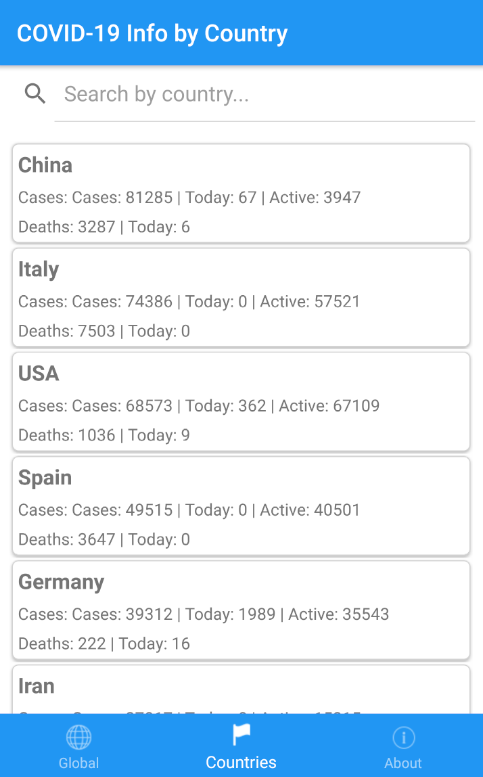
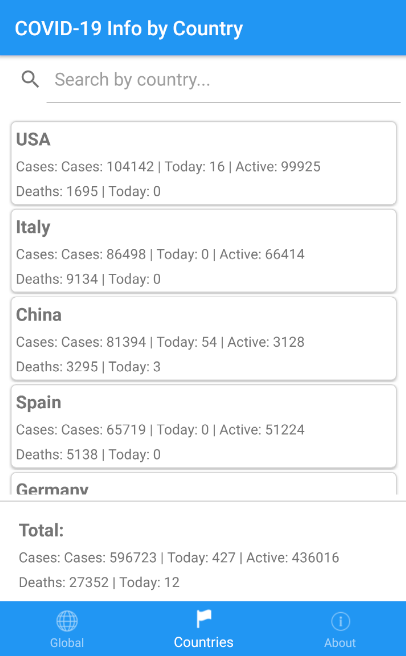
update screenshots

diff --git a/src/COVID19Info/Views/CountriesPage.xaml b/src/COVID19Info/Views/CountriesPage.xaml
@@ -90,7 +90,7 @@
     </RefreshView>
         <BoxView HeightRequest="1"  BackgroundColor="LightGray"/>
         <StackLayout Margin="20,10">
-            <Label Margin="0" Padding="0" Text="{Binding CountryTotal.Name}" FontAttributes="Bold" FontSize="Medium"/>
+            <Label Margin="0" Padding="0" Text="Total:" FontAttributes="Bold" FontSize="Medium"/>
             <Label Margin="0" Padding="0">
                 <Label.FormattedText>
                     <FormattedString>
